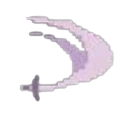
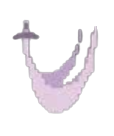
melee

Changed region(s): [[0.1053, 0.1316, 0.8684, 0.8947]]

diff --git a/Código/main.py b/Código/main.py
@@ -93,11 +93,8 @@ while running:
                 if event.key == pygame.K_RETURN:
                     if nombre_str == "":
                         nombre_str = "EMPTY_NAME"
-                    player = pygame.sprite.GroupSingle()
                     user = Player(clase)
                     player.add(user)
-                    enemeies = pygame.sprite.Group()
-                    bullets = pygame.sprite.Group()
                     nombre_state = False
                     juego_state = True
                 elif event.key == pygame.K_BACKSPACE:
@@ -138,12 +135,19 @@ while running:
                 if user.class_chosen != "Caballero":
                     if shoot and not pygame.mouse.get_pressed()[2]:
                         target = (pygame.mouse.get_pos()[0] + camera_left_top[0], pygame.mouse.get_pos()[1] + camera_left_top[1])
-                        bullets.add(Projectile(user.position, target, user.proyectile_size, user.proyectile_speed, user.hitpoint, 1, user.proyectile, 1000))
+                        bullets.add(Projectile(user.position, target, user.proyectile_size, user.proyectile_speed, user.hitpoint, user.proyectile, 1000))
                         shoot = False
                 else:
-                    if shoot and not pygame.mouse.get_pressed()[2]:
-                        target = (fn.relative_pos(pygame.mouse.get_pos(), 0) + camera_left_top[0], fn.relative_pos(pygame.mouse.get_pos(), 1) + camera_left_top[1])
-                        bullets.add(Projectile(user.relative_pos, target, user.proyectile_size, user.proyectile_speed, user.hitpoint, 100, user.proyectile))
+                    if shoot and not pygame.mouse.get_pressed()[2] and not slash:
+                        slash = True
+                        target = (pygame.mouse.get_pos()[0] + camera_left_top[0], pygame.mouse.get_pos()[1] + camera_left_top[1])
+                        angle = math.degrees(math.atan2(user.position[1] - target[1], user.position[0] - target[0]))
+                        pos = (user.relative_pos[0] - 50 * math.cos(math.radians(angle)), user.relative_pos[1] - 50 * math.sin(math.radians(angle)))
+                        print(angle)
+                        slash_img = pygame.transform.rotate(pygame.transform.scale(pygame.image.load("Graphics/Clases/proyectiles/slash.png")\
+                            .convert_alpha(), (75, 75)), angle)
+                        slash_rect = slash_img.get_rect(center = pos)
+                        slash_count = 0
                         shoot = False
                 
 
@@ -230,7 +234,6 @@ while running:
                         nombre_str += button.name
     elif juego_state:
         fn.update_camera_pos(user)
-        print(user.HP)
         fn.background("game")
         if user.exp >= user.exp_to_level:
             level_up_state= True
@@ -281,7 +284,9 @@ while running:
                 enemeies.add(Enemy(enemy_pos, random.choice(enemy_types)))
                 enemy_timer = 0
                 
-            enemies_hit = pygame.sprite.groupcollide(enemeies, bullets, False, False)
+            enemies_hit = pygame.sprite.groupcollide(enemeies, bullets, False, True)
+            for enemy in enemies_hit:
+                enemy.HP -= user.hitpoint
             
             for enemy in enemies_hit:
                 enemy.HP -= user.hitpoint
@@ -289,7 +294,7 @@ while running:
             for bullet in sprite_hit:
                 user.HP -= bullet.damage
 
-
+            
             bushes.update()
             bushes.draw(screen)
             player.update()
@@ -300,6 +305,19 @@ while running:
             enemeies.draw(screen)
             bullets.draw(screen)
             enemy_bullets.draw(screen)
+            if slash:
+                screen.blit(slash_img, slash_rect)
+                for i in enemeies:
+                    if slash_rect.colliderect(i.rect):
+                        i.HP -= user.hitpoint
+                for i in enemy_bullets:
+                    if slash_rect.colliderect(i.rect):
+                        i.kill()
+                        print("Parry this you filthy casual")
+                slash_count += 1
+                if slash_count == 10:
+                    slash = False
+                    slash_count = 0
             draw_minimap(user)
 
     elif end_state:

diff --git a/Código/clases.py b/Código/clases.py
@@ -129,8 +129,12 @@ class Player(pygame.sprite.Sprite):
         self.mana_bar()
         if self.HP < self.MaxHP:
             self.HP += self.HPregen
+        elif self.HP > self.MaxHP:
+            self.HP = self.MaxHP
         if self.Mana < self.MaxMana:
             self.Mana += self.Manaregen
+        elif self.Mana > self.MaxMana:
+            self.Mana = self.MaxMana
         self.exp_bar()
         self.movement()
     
@@ -198,11 +202,11 @@ class Enemy(pygame.sprite.Sprite):
         global enemy_bullets
         if self.type == "Melee":
             if fn.calc_distance(self.relative_pos, player.relative_pos) <= self.range + self.size[0]:
-                pygame.draw.line(screen, (255,0,0), self.relative_pos, player.relative_pos, 5)
+                pygame.draw.line(screen, (255,0,0), self.relative_pos, player.relative_pos, 10)
                 player.HP -= self.hitpoint
         elif self.type == "Ranged":
             if fn.calc_distance(self.relative_pos, player.relative_pos) <= self.range + self.size[0]:
-                enemy_bullets.add(Projectile(self.position, player.position, 15, 2, self.hitpoint, 0, "arrow.png"))
+                enemy_bullets.add(Projectile(self.position, player.position, 15, self.hitpoint, 0, "arrow.png"))
 
     def update(self, player):
         self.relative_pos = [fn.relative_pos(self.position,0), fn.relative_pos(self.position,1)]
@@ -218,10 +222,10 @@ class Enemy(pygame.sprite.Sprite):
             
 class Projectile(pygame.sprite.Sprite):
 
-    def __init__(self, position:list, target_position, size: int, speed: int, damage: int, piercing: int, weapon: str, time_to_destroy: int = 100):
+    def __init__(self, position:list, target_position, size: int, speed: int, damage: int, weapon: str, time_to_destroy: int = 100):
         pygame.sprite.Sprite.__init__(self)
         self.position = [position[0], position[1]] # Hay que hacerlo así porque si no, solo se crea un pointer a la pos. del jugador
-        self.size, self.damage, self.piercing = size, damage, piercing
+        self.size, self.damage = size, damage
         self.speed_x = speed * (target_position[0]-position[0])/max(fn.calc_distance(self.position, target_position),0.001)
         self.speed_y = speed * (target_position[1]-position[1])/max(fn.calc_distance(self.position, target_position),0.001)
         angle = math.atan2(self.speed_y, self.speed_x)
@@ -230,7 +234,6 @@ class Projectile(pygame.sprite.Sprite):
         self.image = pygame.transform.rotate(self.image, -angle * 180 / math.pi)
 
         self.rect = self.image.get_rect(center = (self.position[0], self.position[1]))
-        self.piercing = piercing
         self.time_to_destroy = time_to_destroy
         
 

diff --git a/Código/constantes.py b/Código/constantes.py
@@ -33,9 +33,13 @@ level_up = False
 pausa_state = False
 shoot = False
 ability = False
+slash = False
 clase = ""
 enemy_list = []
 enemy_bullets = pygame.sprite.Group()
+player = pygame.sprite.GroupSingle()
+enemeies = pygame.sprite.Group()
+bullets = pygame.sprite.Group()
 
 choice = ""
 enemy_timer = 0
